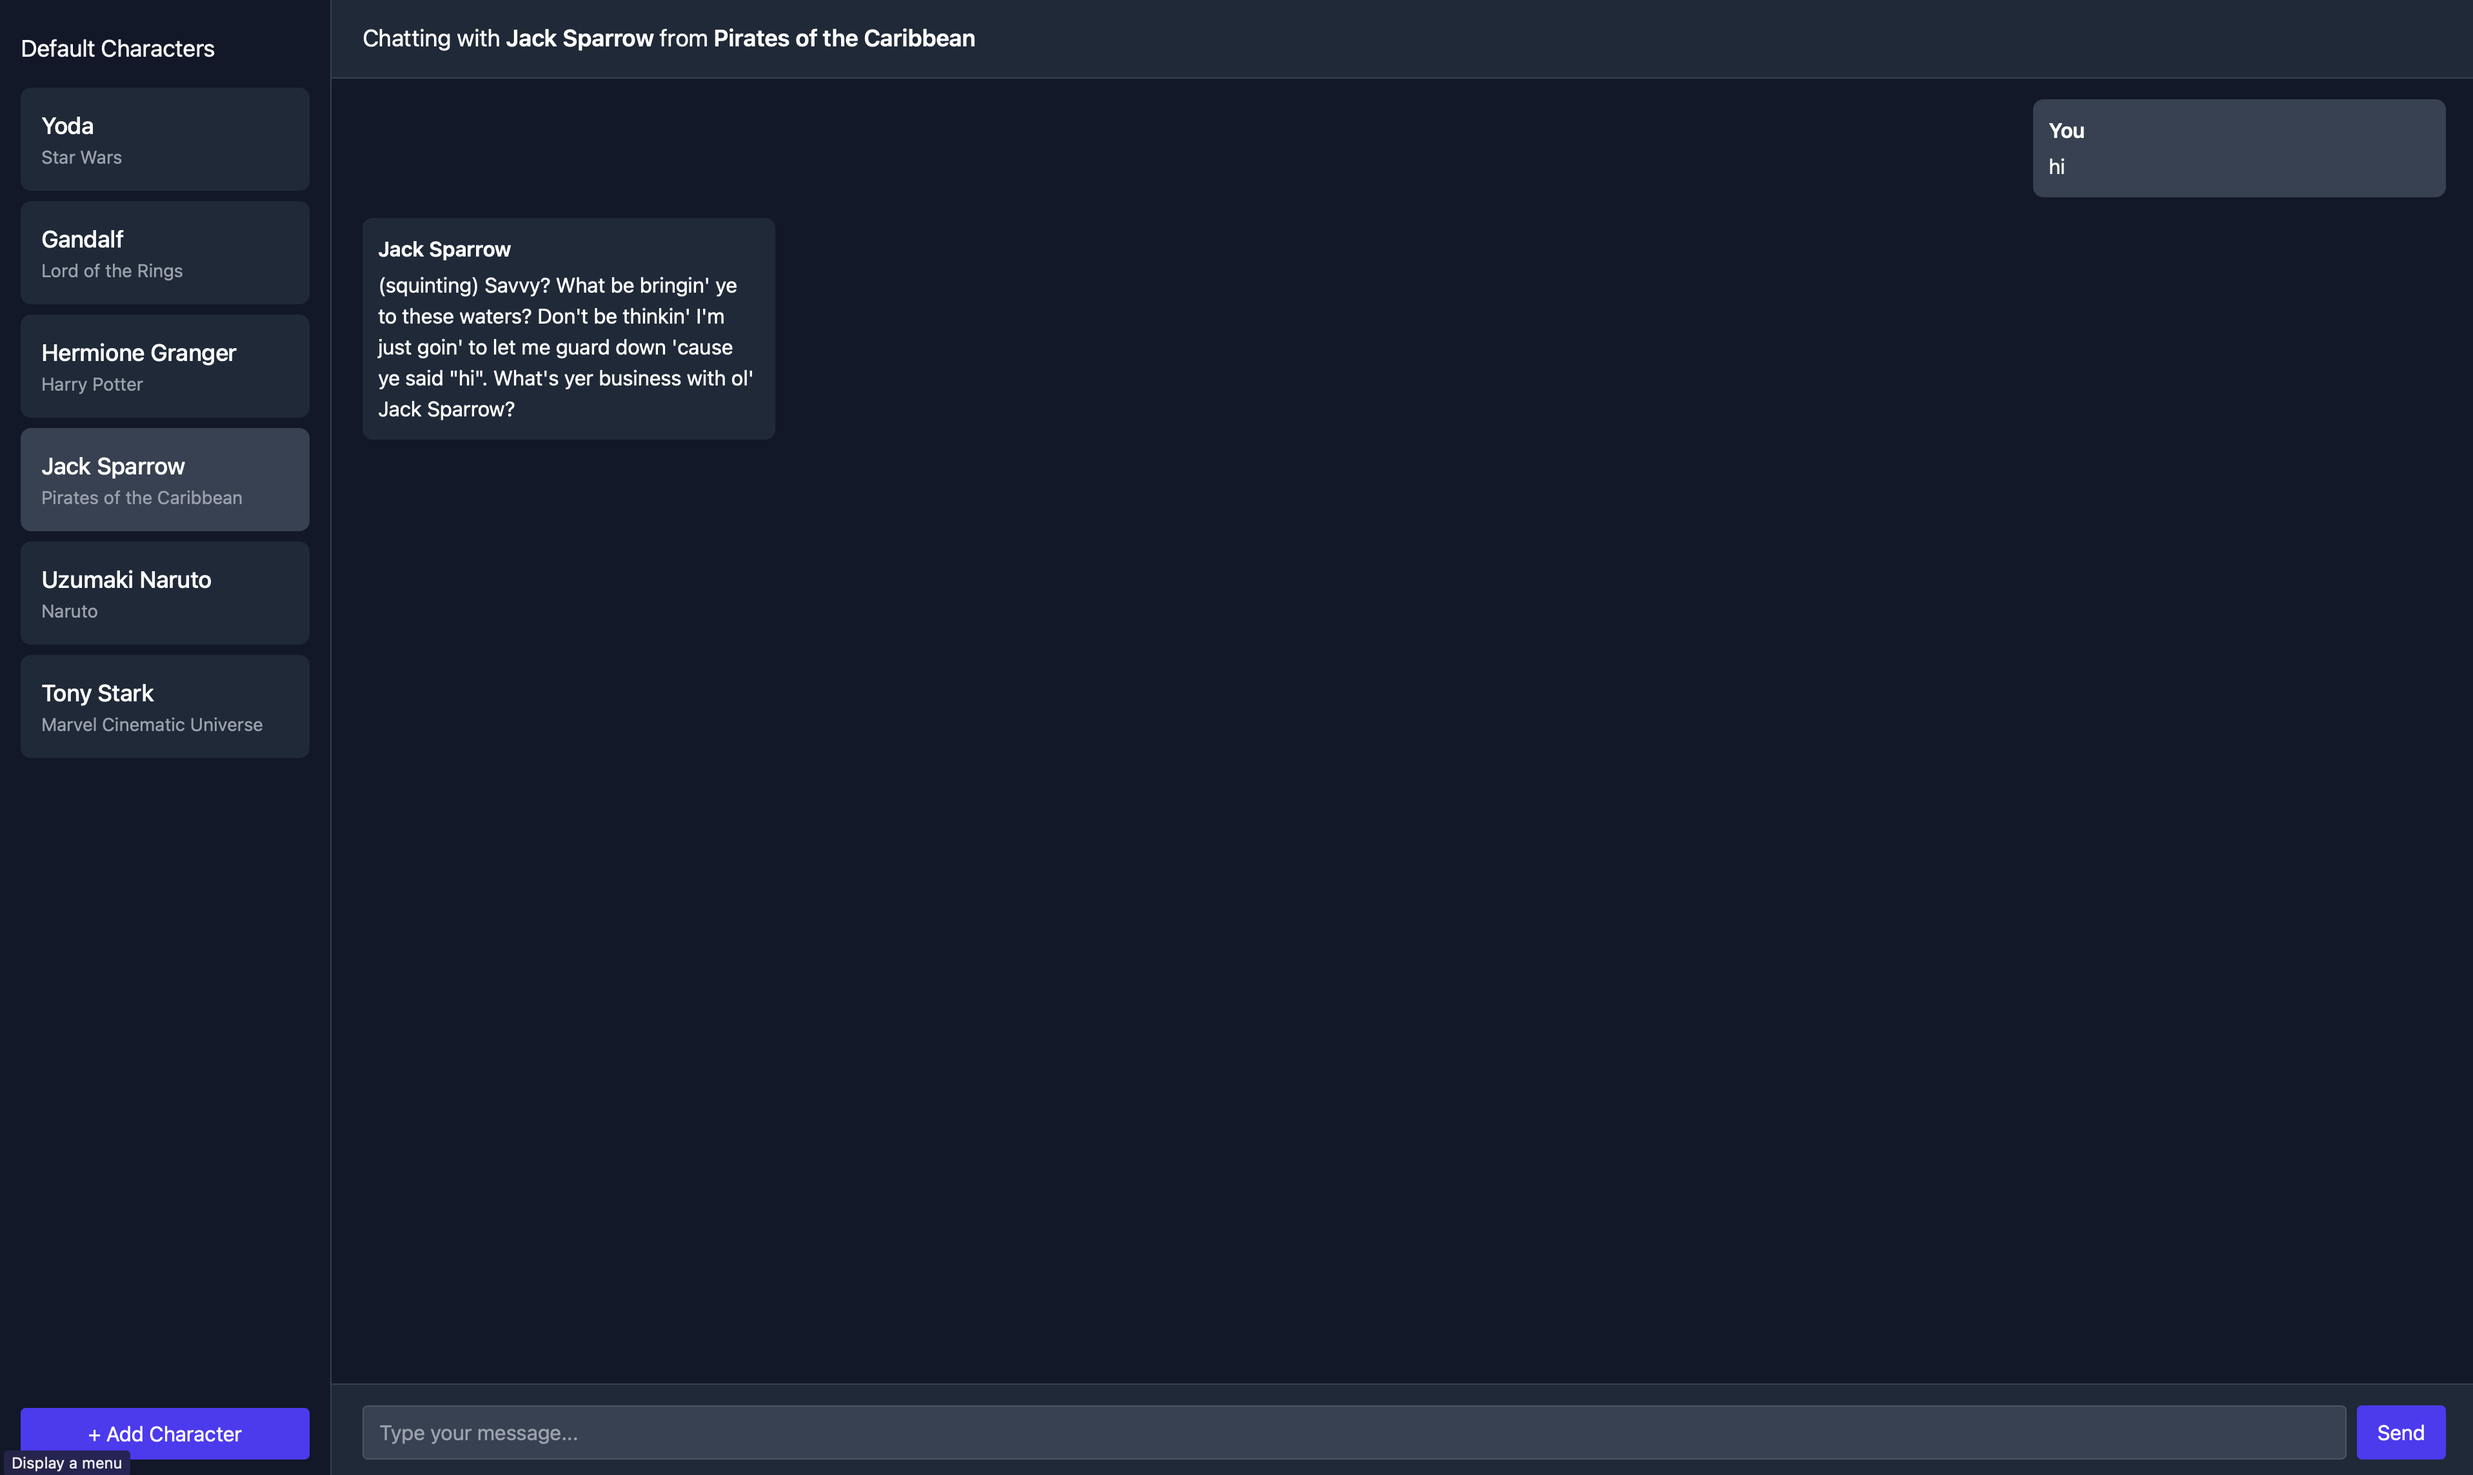
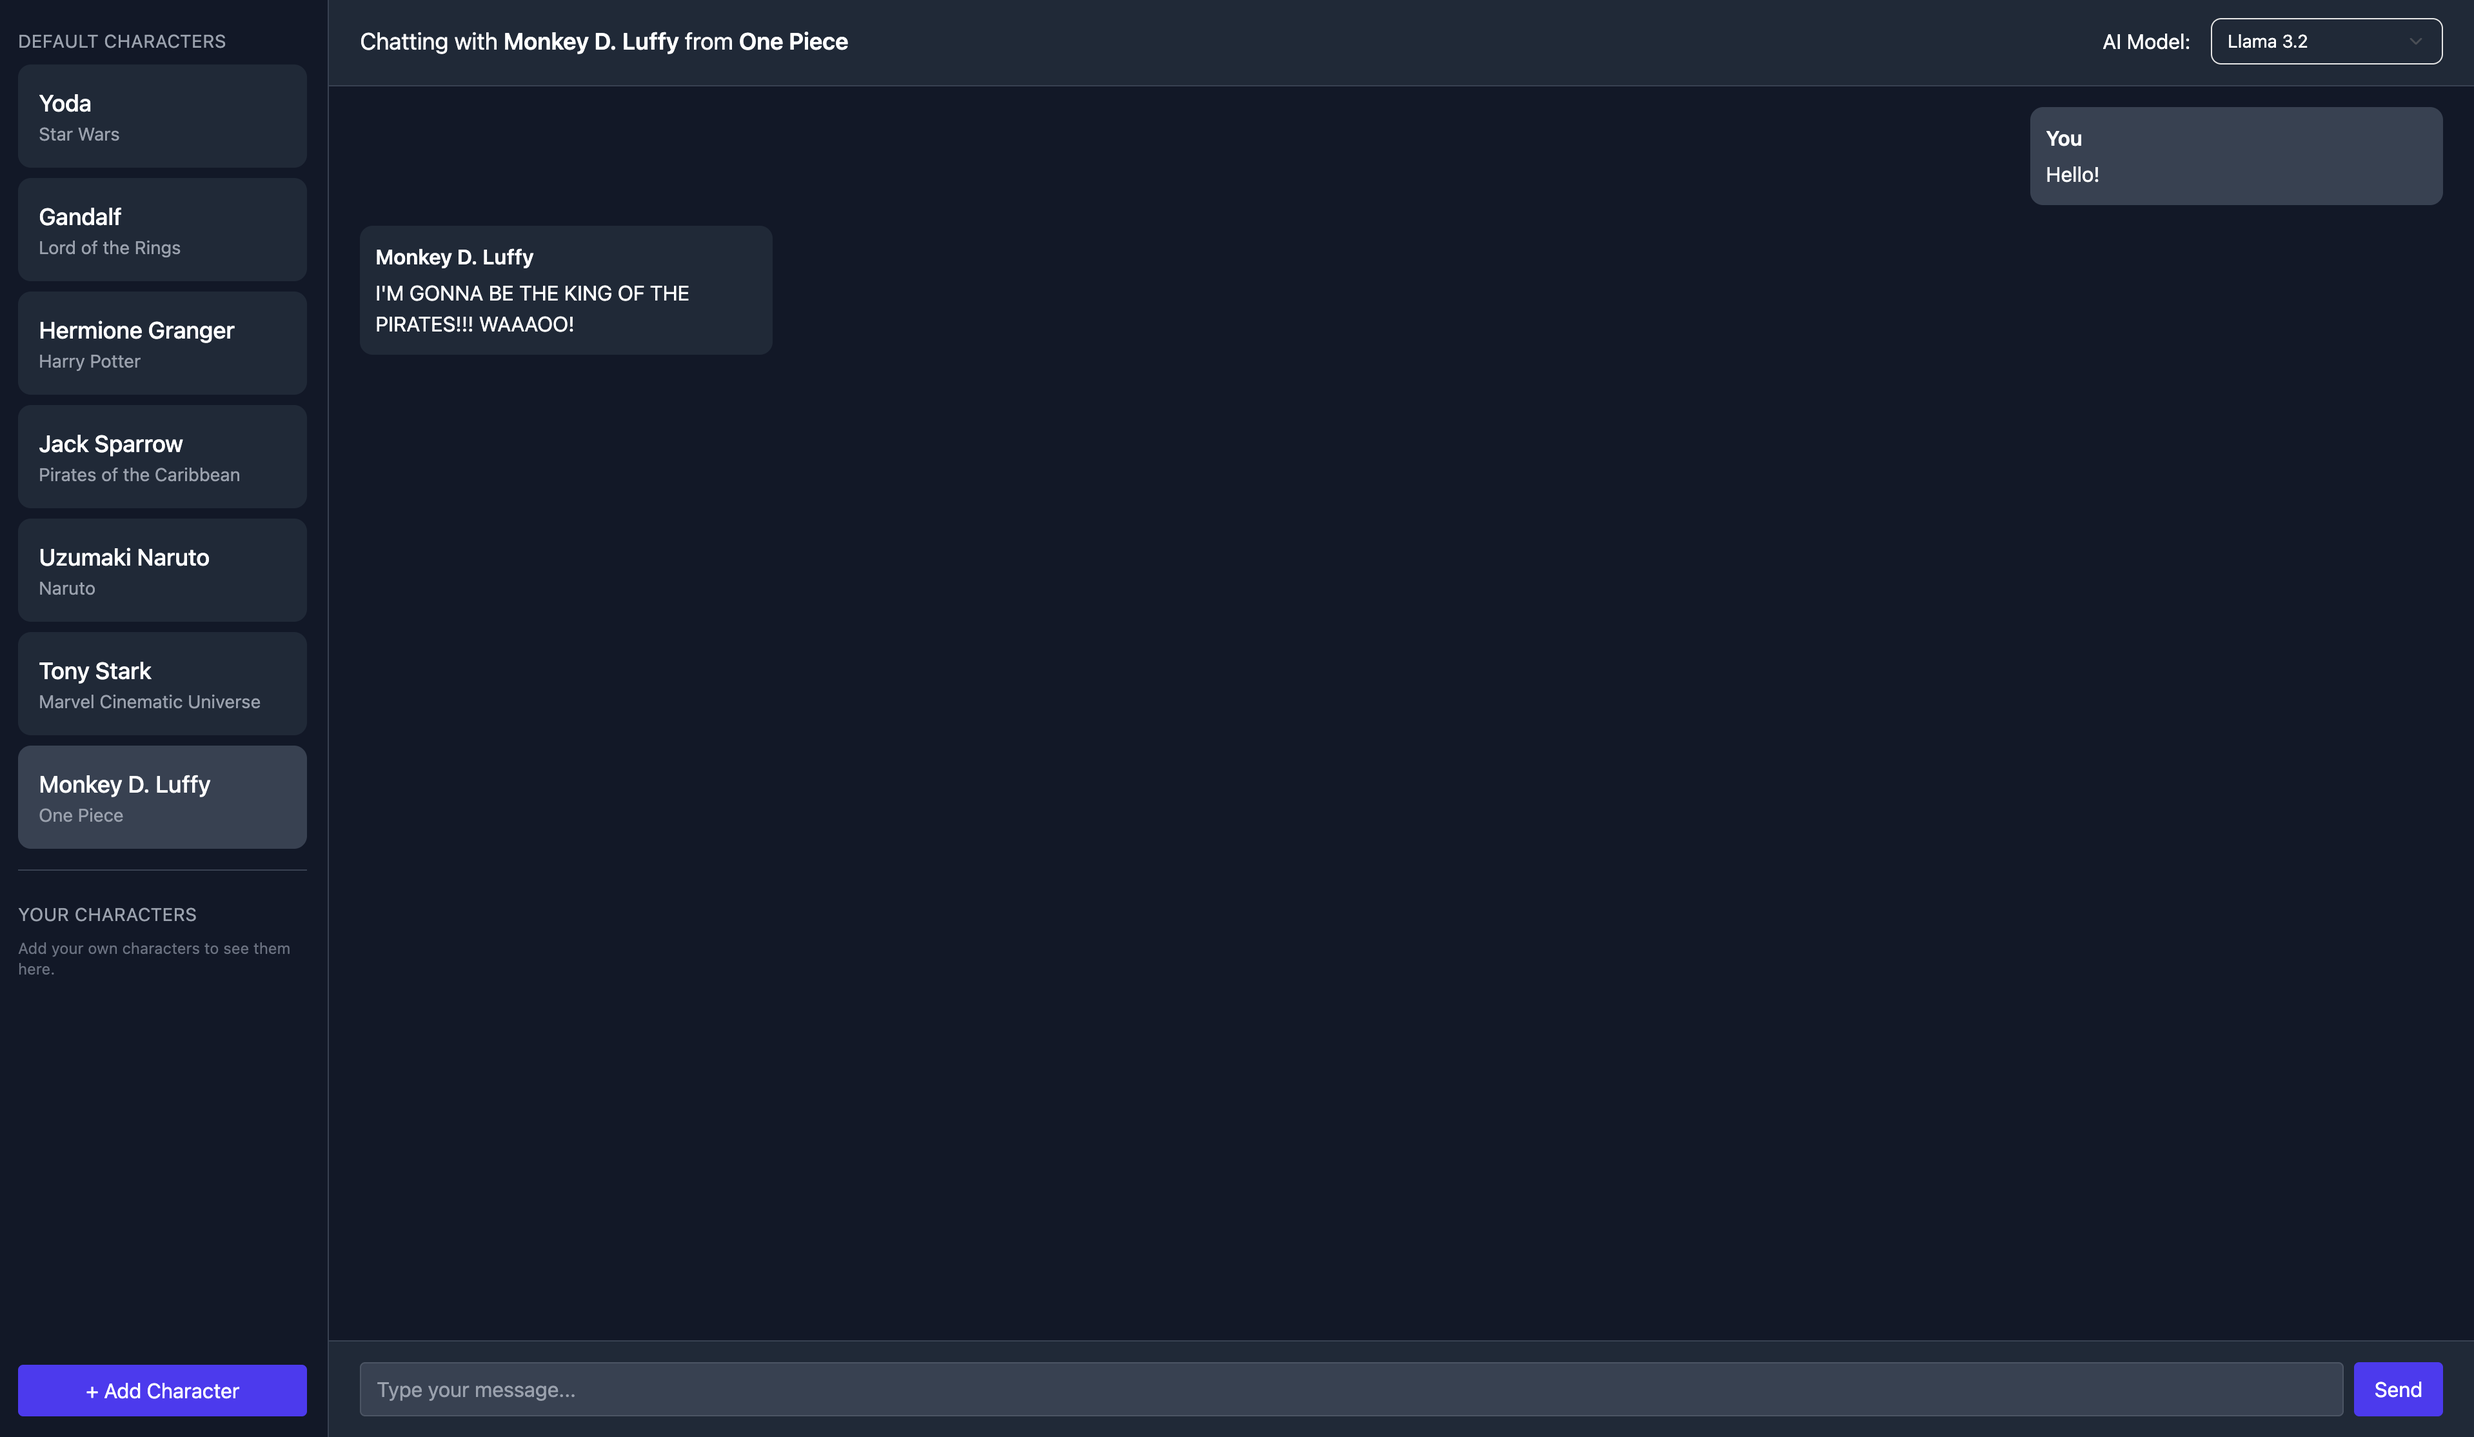
MultiLLM Support: changed a model, fixed AI_MODELS path and updated readme.md.

diff --git a/frontend/src/components/chat/ChatHeader.tsx b/frontend/src/components/chat/ChatHeader.tsx
@@ -48,7 +48,7 @@ export default function ChatHeader({
           <SelectContent>
             <SelectItem value="llama">Llama 3.2</SelectItem>
             <SelectItem value="gemma">Gemma 3</SelectItem>
-            <SelectItem value="dolphin-mistral">Dolphin Mistral</SelectItem>
+            <SelectItem value="mistral">Mistral</SelectItem>
           </SelectContent>
         </Select>
       </div>

diff --git a/backend/app/chat_graph.py b/backend/app/chat_graph.py
@@ -3,7 +3,7 @@
 import os
 from typing import List, Optional
 from pydantic import BaseModel
-from backend.app.api.consts import AI_MODELS
+from app.api.consts import AI_MODELS
 from langchain_ollama import ChatOllama
 from langchain_core.prompts import ChatPromptTemplate, MessagesPlaceholder
 from langgraph.graph import StateGraph, END
@@ -22,7 +22,7 @@ def create_chat_graph(character: str, universe: str, ai_model: str):
   prompt = ChatPromptTemplate.from_messages([
     ("system",
       "You are roleplaying as **{character}** from the **{universe}** universe. "
-      "Speak in character. Only reply with what {character} would say next."),
+      "Speak in character. Talk just the way the character would talk in that universe. Only reply with what {character} would say next."),
       MessagesPlaceholder("messages"),
     ("user", "{input}")
   ])

diff --git a/backend/app/api/consts.py b/backend/app/api/consts.py
@@ -1,5 +1,5 @@
 AI_MODELS = {
   "llama": "llama:3.2",
   "gemma": "gemma3",
-  "dolphin-mistral": "dolphin-mistral"
+  "mistral": "mistral"
 }

diff --git a/README.md b/README.md
@@ -1,6 +1,6 @@
 # Fictional Chat
 
-Fictional Chat is a web application that lets you carry on conversations with your favorite fictional characters. It uses a locally hosted LLM (llama3.2) served via Ollama within Docker containers, ensuring privacy and full control over the model.
+Fictional Chat is a multi-llm web application that lets you carry on conversations with your favorite fictional characters. It uses locally hosted LLMs served via Ollama within Docker containers, ensuring privacy and full control over the model.
 
 ![Screenshot](./images/ss.png)
 
@@ -11,14 +11,14 @@ Fictional Chat is a web application that lets you carry on conversations with yo
 <li>Persistent sidebar: Default and user characters are displayed in separate sections. Added characters are reloaded from localStorage each time the app starts.
 <li>Modern UI: Built with React, TypeScript, Headless UI, and Tailwind CSS for a responsive and accessible interface.
 <li>Empty chat prompt: If there are no previous chats for a character, the UI shows a centered playful message to encourage chatting.
-<li>Local LLM hosting: Host llama3.2 locally via Ollama and Docker to keep all data on your machine.
+<li>Local LLM hosting: Host llama3.2, gemma3 & mistral locally via Ollama and Docker to keep all data on your machine.
 </ul>
 
 ### Prerequisites
 <ul>
 	<li>Docker installed on your system (Docker Engine 20.10+)
 	<li>Ollama CLI (ensure you have access to ollama command)
-	<li>llama3.2 model downloaded via Ollama
+	<li>llama3.2, gemma3 & mistral model downloaded via Ollama
 	<li>Node.js (v16 or higher) and npm/yarn for frontend dependencies
 </ul>
 
@@ -30,9 +30,11 @@ cd fictional-chat
 ```
 <br>
 
-2. Pull the LLM model
+2. Pull the LLM models
 ```bash
-ollama pull llama3.2
+ollama pull llama3.2:latest
+ollama pull gemma3:latest
+ollama pull mistral:latest
 ```
 <br>
 
